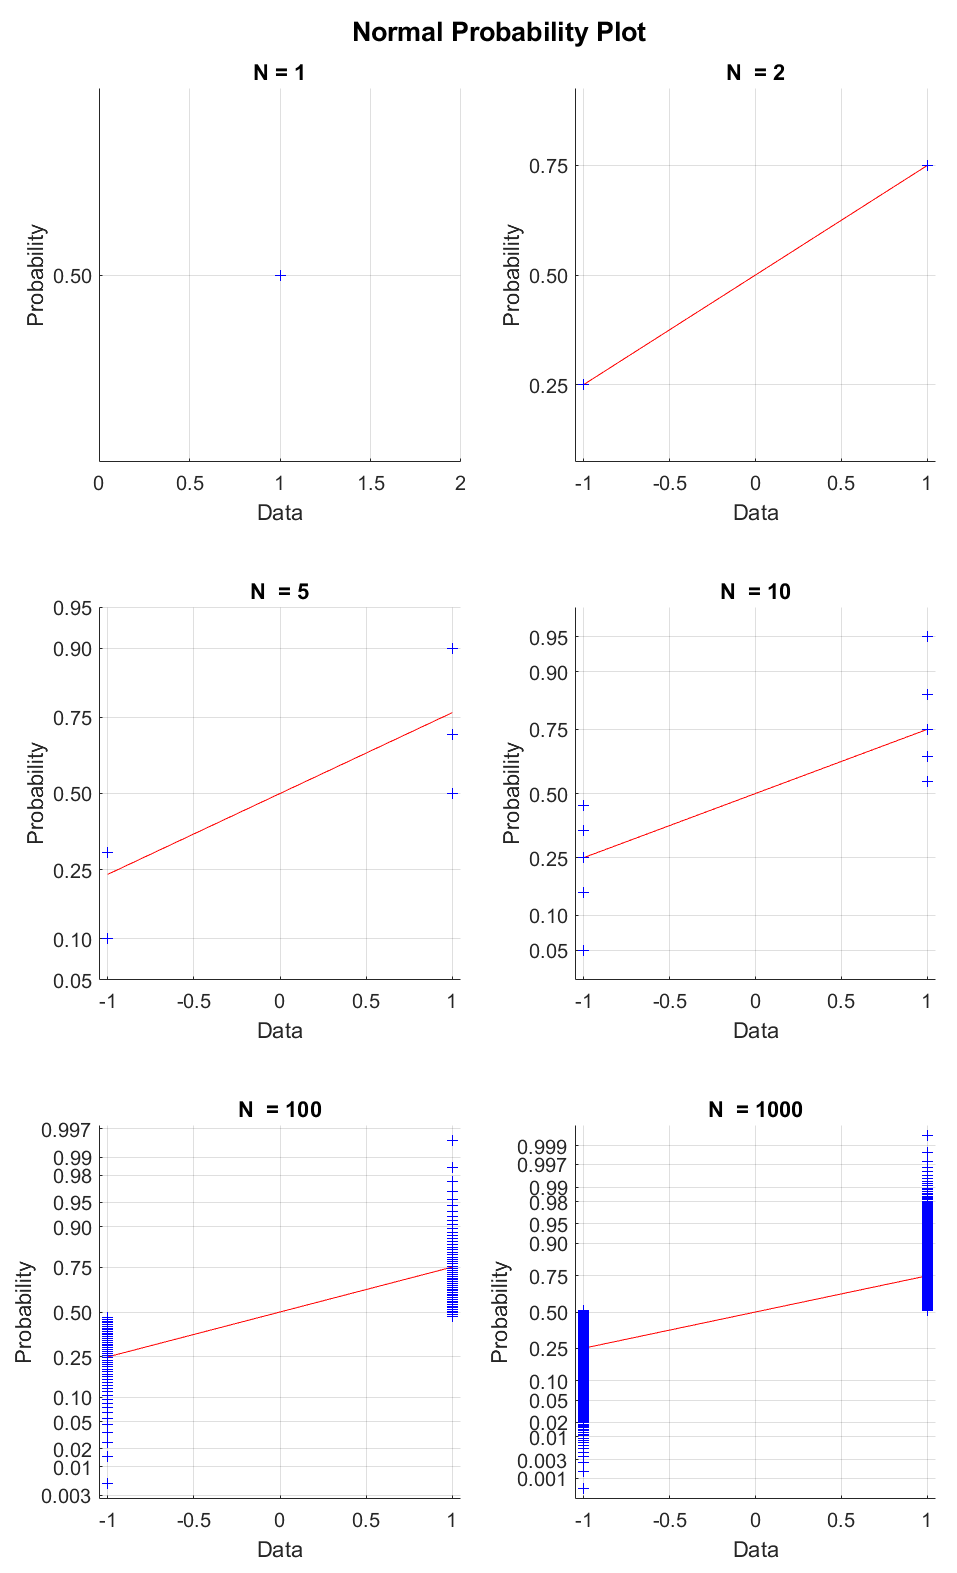
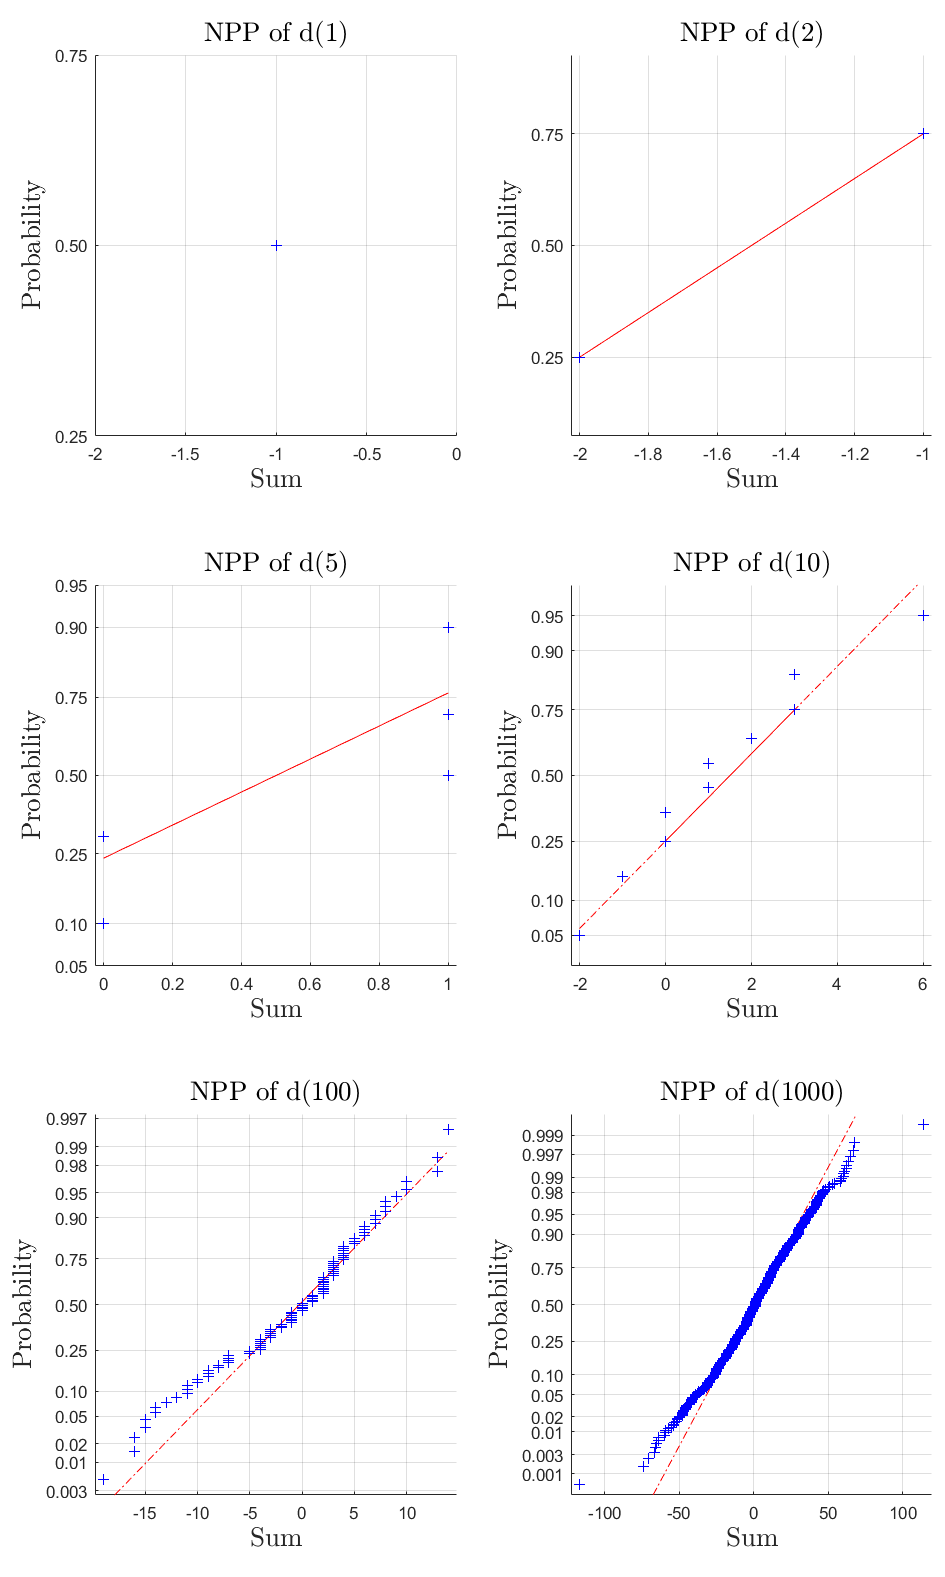
datsci

diff --git a/DatSci/Exam/report/main.tex b/DatSci/Exam/report/main.tex
@@ -13,10 +13,10 @@
 \usepackage{listings}
 \usepackage{xcolor}
 
-\definecolor{codegreen}{rgb}{0,0.6,0}
-\definecolor{codegray}{rgb}{0.5,0.5,0.5}
-\definecolor{codepurple}{rgb}{0.58,0,0.82}
-\definecolor{backcolour}{rgb}{0.97,0.97,0.97}
+\definecolor{codegreen}{rgb}{0, 1, 0}
+\definecolor{codegray}{rgb}{0.5, 0.5, 0.5}
+\definecolor{codepurple}{rgb}{0.58, 0, 0.82}
+\definecolor{backcolour}{rgb}{0.94, 0.99, 0.99}
 
 \lstdefinestyle{codestyle}{
     backgroundcolor=\color{backcolour},
@@ -59,8 +59,6 @@
 \setcounter{secnumdepth}{0}
 
 \newcommand{\HRule}{\rule{\linewidth}{0.5mm}}
-\newcommand{\SRC}{\hl{\textit{Put source here}}}
-%\renewcommand\lstlistingname{Code Snippet}
 \renewcommand*{\lstlistingname}{Snippet}
 \renewcommand{\lstlistlistingname}{List of Code Snippets}
 
@@ -68,12 +66,11 @@
 \author{Metin Oktay Yılmaz}
 
 \begin{document}
-    \input{title.tex}
+    \input{./title/title.tex}
     {\tableofcontents\let\clearpage\relax\listoffigures\let\clearpage\relax\lstlistoflistings}
     \newpage
-    \input{q1.tex}
-    \input{q2.tex}
-    \input{q3.tex}
-    \input{q4.tex}
-
+    \input{./answers/q1.tex}
+    \input{./answers/q2.tex}
+    \input{./answers/q3.tex}
+    \input{./answers/q4.tex}
 \end{document}

diff --git a/DatSci/Exam/report/answers/q2.tex b/DatSci/Exam/report/answers/q2.tex
@@ -1,0 +1,25 @@
+\newpage
+\section{Task 2}
+In the next step, the sum of $N$ random numbers $(-1,+1)$ should be calculated and afterwards the sum of the random walk function
+\begin{equation}
+    d(N) = Z\uparrow - Z\downarrow
+\end{equation}
+
+should be simulated for $N = 1, 2, 5, 10, 100, \text{and }1000$. Then it should be shown that the greater the N is, the better the equation (1) corresponds to a normal distribution function.
+
+\subsection*{Solution}
+The normal distribution plot for each $N$ is plotted using \mintinline{Matlab}|normplot(dataset)| method. Random dataset of (1, -1) is created using randi Following snippet is used to generate the data set and plots. The plots are on the following page.
+
+\begin{listing}[H]
+    \lstinputlisting[language=Matlab, caption={Matlab script for Task 2.}]{./scripts/task2.m}
+\end{listing}
+
+\newgeometry{left=0cm, right=0cm, top=0cm, bottom=0cm}
+\begin{figure}
+    \centering
+    \includegraphics[scale=0.56]{task2}
+    \caption{The normal probability plot of the given $N$s}
+\end{figure}
+\thispagestyle{empty}
+\restoregeometry
+

diff --git a/DatSci/Exam/report/answers/q1.tex b/DatSci/Exam/report/answers/q1.tex
@@ -1,5 +1,5 @@
 \section{Task 1}
-Using Matlab\textsuperscript{TM},
+Using Matlab,
 \begin{enumerate}
     \item Generate equally distributed (discrete) random numbers -1 and +1.
     \item Prove that these random numbers are equally distributed.
@@ -9,11 +9,11 @@ Using Matlab\textsuperscript{TM},
 The mean value of a normal distribution is $\mu=0$ and standard deviation is $\sigma=1$. The following snippet generates the required data set and displays the proof for the characteristics. The histogram graph is on the next page.
 
 \begin{listing}[H]
-    \lstinputlisting[language=Matlab, caption={Matlab\texttrademark \: script for Task 1.}]{task1.m}
+    \lstinputlisting[language=Matlab, caption={Matlab script for Task 1.}]{./scripts/task1.m}
 \end{listing}
 
 \begin{figure}[H]
     \centering
-    \includegraphics[scale=0.75]{task1}
+    \includegraphics[scale=0.6]{task1}
     \caption{The distribution of the data set}
 \end{figure}

diff --git a/DatSci/Exam/report/scripts/task3.m b/DatSci/Exam/report/scripts/task3.m
@@ -1,0 +1,28 @@
+clc
+clear 
+
+% initializing variables
+N = 0:999;
+std_dataset = zeros(1, length(N));
+sigma_x = zeros(1, length(N));
+
+for i = N
+    % randomly generate -1 and +1
+    dataset = 2*randi([1, 2], 1, i+1) - 3;
+    % normalizing the dataset
+    dataset = dataset / (i + 1);
+    % standard deviation array
+    std_dataset(i + 1) = std(dataset);
+    % 1/sqrt(N) array
+    sigma_x(i + 1) = 1/sqrt(i + 1);
+end
+
+figure
+plot(N, std_dataset, 'LineWidth', 1, 'Color', [1 0 0])
+hold
+plot(N, sigma_x, 'LineWidth', 1, 'Color', [0 0 1])
+
+xlabel('N', 'FontSize', 24,'Interpreter','latex')
+ylabel('$\sigma_x$', 'FontSize', 24, 'Interpreter', 'latex')
+title('Standard Deviation vs $\frac{1}{\sqrt{N}}$', 'FontSize', 24, 'Interpreter','latex')
+legend('Standard Deviation', '$\frac{1}{\sqrt{N}}$', 'FontSize', 16, 'Interpreter', 'latex')

diff --git a/DatSci/Exam/report/scripts/task4.m b/DatSci/Exam/report/scripts/task4.m
@@ -1,0 +1,30 @@
+clc
+clear 
+
+% initilizing variables
+N = 1:1000;
+d_of_N = zeros(1, length(N));
+std_d = zeros(1, length(N));
+sqrt_N = zeros(1, length(N));
+
+for i = N
+    % randomly generate -1 and +1
+    dataset = 2*randi([1, 2], 1, i) - 3;
+    % total distance function
+    d_of_N(i) = sum(dataset);
+    % standard deviation array
+    std_d(i) = std(d_of_N);
+    % 1/sqrt(N) array
+    sqrt_N(i) = sqrt(i);
+end
+
+figure
+
+plot(std_d, 'LineWidth', 2)
+hold
+plot(sqrt_N, 'LineWidth' , 2)
+
+xlabel('N', 'FontSize', 24, 'Interpreter', 'latex')
+ylabel('$\sigma_d$', 'FontSize', 24, 'Interpreter', 'latex')
+legend('Standard Deviation', '$\sqrt{N}$', 'FontSize', 16, 'Interpreter', 'latex')
+

diff --git a/DatSci/Exam/report/title/title.tex b/DatSci/Exam/report/title/title.tex
@@ -1,6 +1,6 @@
 \begin{titlepage}
     \begin{center}
-        \includegraphics[width=0.60\textwidth]{FH.jpg}\\[1.85cm]
+        \includegraphics[width=0.60\textwidth]{FH}\\[1.85cm]
 
         \textbf{\textsc{\Large Carinthia University of Applied Sciences}}\\[1.85cm]
 
@@ -20,9 +20,8 @@
         		\begin{tabular}{|l|c|}
         			\toprule
         			Student: & Metin Oktay \textsc{Yilmaz} \\
-        			\midrule
         			ID: & 2210528013   	\\
-        			Lecturer \#1: & Christian  \textsc{Ungemans}  \\
+        			Lecturer: & Christian  \textsc{Ungemans}  \\
         			Submitted: & {\large \today}  	\\
         			\bottomrule
         		\end{tabular}

diff --git a/DatSci/Exam/report/scripts/task2.m b/DatSci/Exam/report/scripts/task2.m
@@ -1,0 +1,23 @@
+clc
+clear 
+
+N = [1, 2, 5, 10, 100, 1000];
+
+figure
+
+for i = N
+    % initializing total distance array
+    d_of_N = zeros(1,i);
+    for ii = 1:i
+        % randomly generate -1 and +1
+        dataset = 2*randi([1, 2], 1, ii) - 3;
+        % total distance function
+        d_of_N(ii) = sum(dataset);
+    end
+    subplot(3, 2, find(N==i))
+    normplot(d_of_N);
+    title(['NPP of d(' num2str(i) ')'], 'FontSize', 16,'Interpreter', 'latex')
+    xlabel('Sum', 'FontSize', 16, 'Interpreter', 'latex')
+    ylabel('Probability', 'FontSize', 16, 'Interpreter','latex')
+end
+

diff --git a/DatSci/Exam/report/answers/q3.tex b/DatSci/Exam/report/answers/q3.tex
@@ -1,0 +1,17 @@
+\newpage
+\section{Task 3}
+Show that the standard deviation of a randomly normally distributed dataset is inversely proportional to the square root of its length, as follows:
+
+\begin{equation}
+\sigma_x = \frac{1}{\sqrt{N}}
+\end{equation}
+
+\begin{listing}[H]
+    \lstinputlisting[language=Matlab, caption={Matlab script for Task 3.}]{./scripts/task3.m}
+\end{listing}
+
+\begin{figure}[H]
+    \centering
+    \includegraphics[scale=0.6]{task3}
+    \caption{Standard deviation $\sigma_x$ of the dataset vs $\frac{1}{\sqrt{N}}$}
+\end{figure}

diff --git a/DatSci/Exam/report/answers/q4.tex b/DatSci/Exam/report/answers/q4.tex
@@ -1,0 +1,17 @@
+\newpage
+\section{Task 4}
+Show mathematically that the non-normalized standard deviation of $d(N)$ can be written as
+\begin{equation}
+    \sigma_d = \sqrt{N}
+\end{equation}
+Also prove this result graphiaclly.
+
+\begin{listing}[H]
+    \lstinputlisting[language=Matlab, caption={Matlab script for Task 4.}]{./scripts/task4.m}
+\end{listing}
+
+\begin{figure}[H]
+    \centering
+    \includegraphics[scale=0.6]{task4}
+    \caption{Standard deviation $\sigma_d$ of the dataset vs $\sqrt{N}$}
+\end{figure}

diff --git a/DatSci/Exam/report/scripts/task1.m b/DatSci/Exam/report/scripts/task1.m
@@ -11,9 +11,9 @@ data_set = data_set(randperm(length(data_set)));
 mean(data_set)
 std(data_set)
 histogram(data_set, length(data_set))
-title('Histogram of the Data Set with 1000 Bins')
-xlabel('Value')
-ylabel('Occurence')
+title('Histogram of the Data Set with 1000 Bins', 'FontSize', 24, 'Interpreter', 'latex')
+xlabel('Value', 'FontSize', 24, 'Interpreter', 'latex')
+ylabel('Occurence', 'FontSize', 24, 'Interpreter', 'latex')
 
 
 
